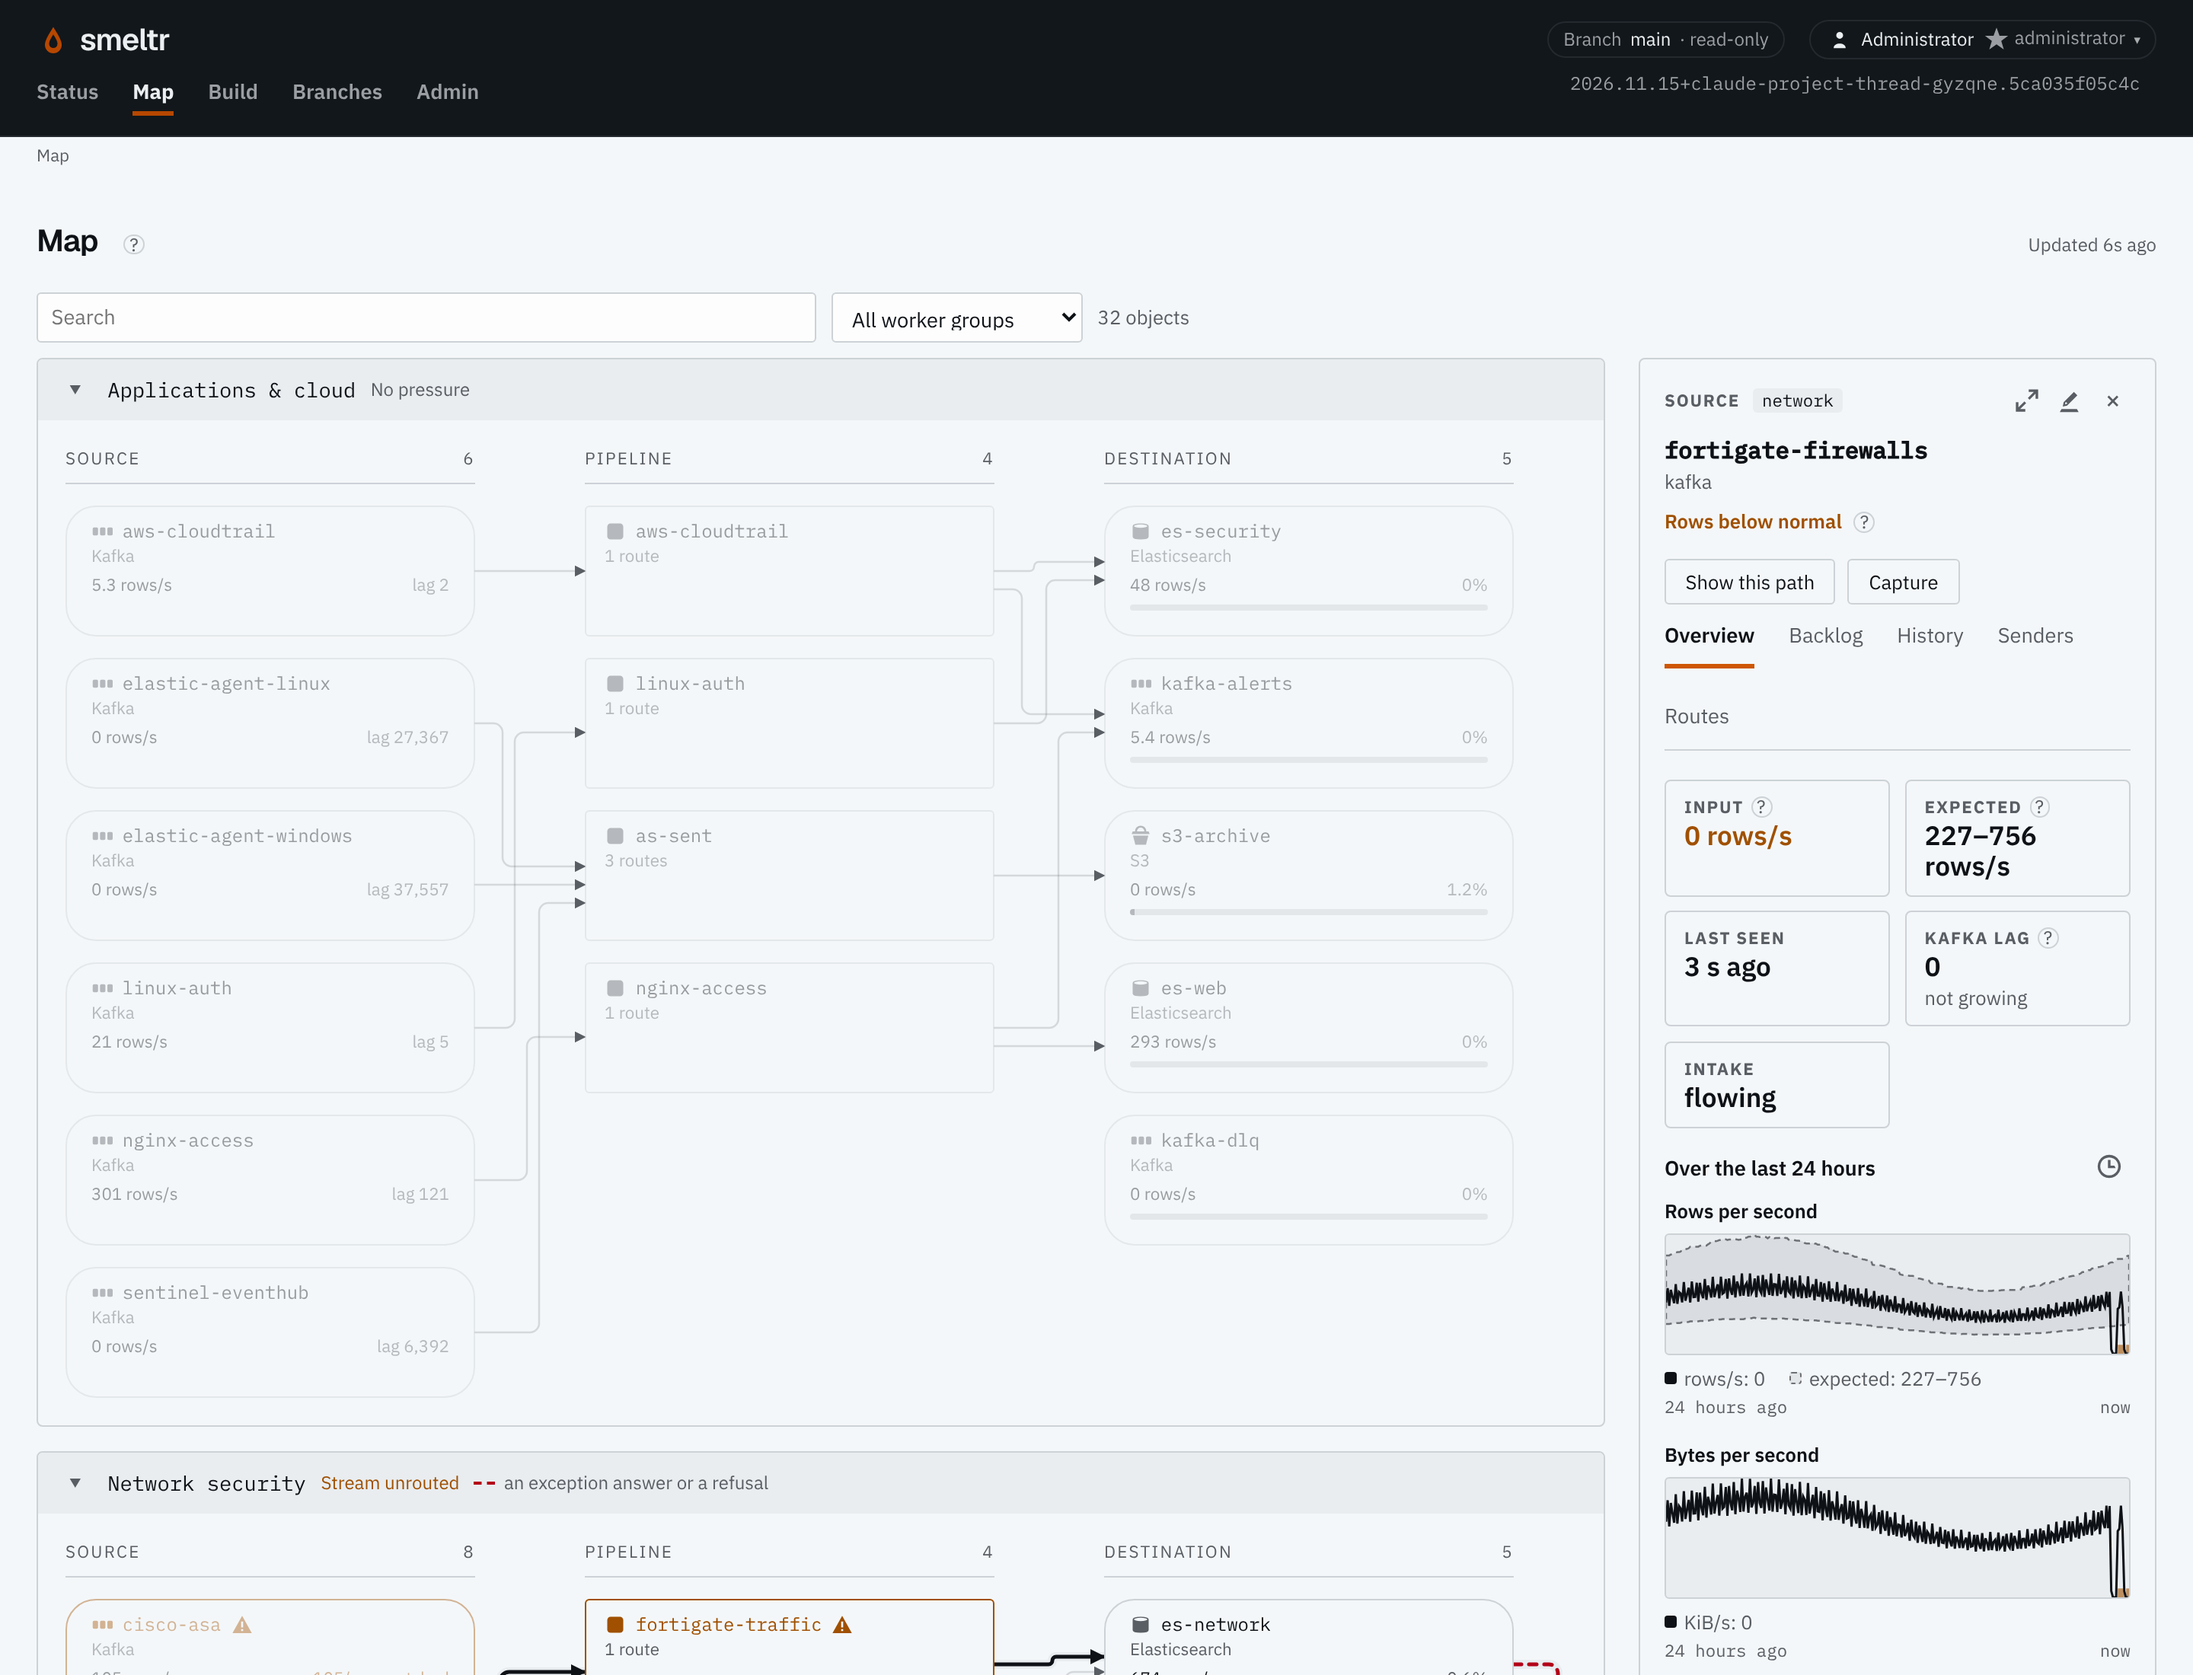
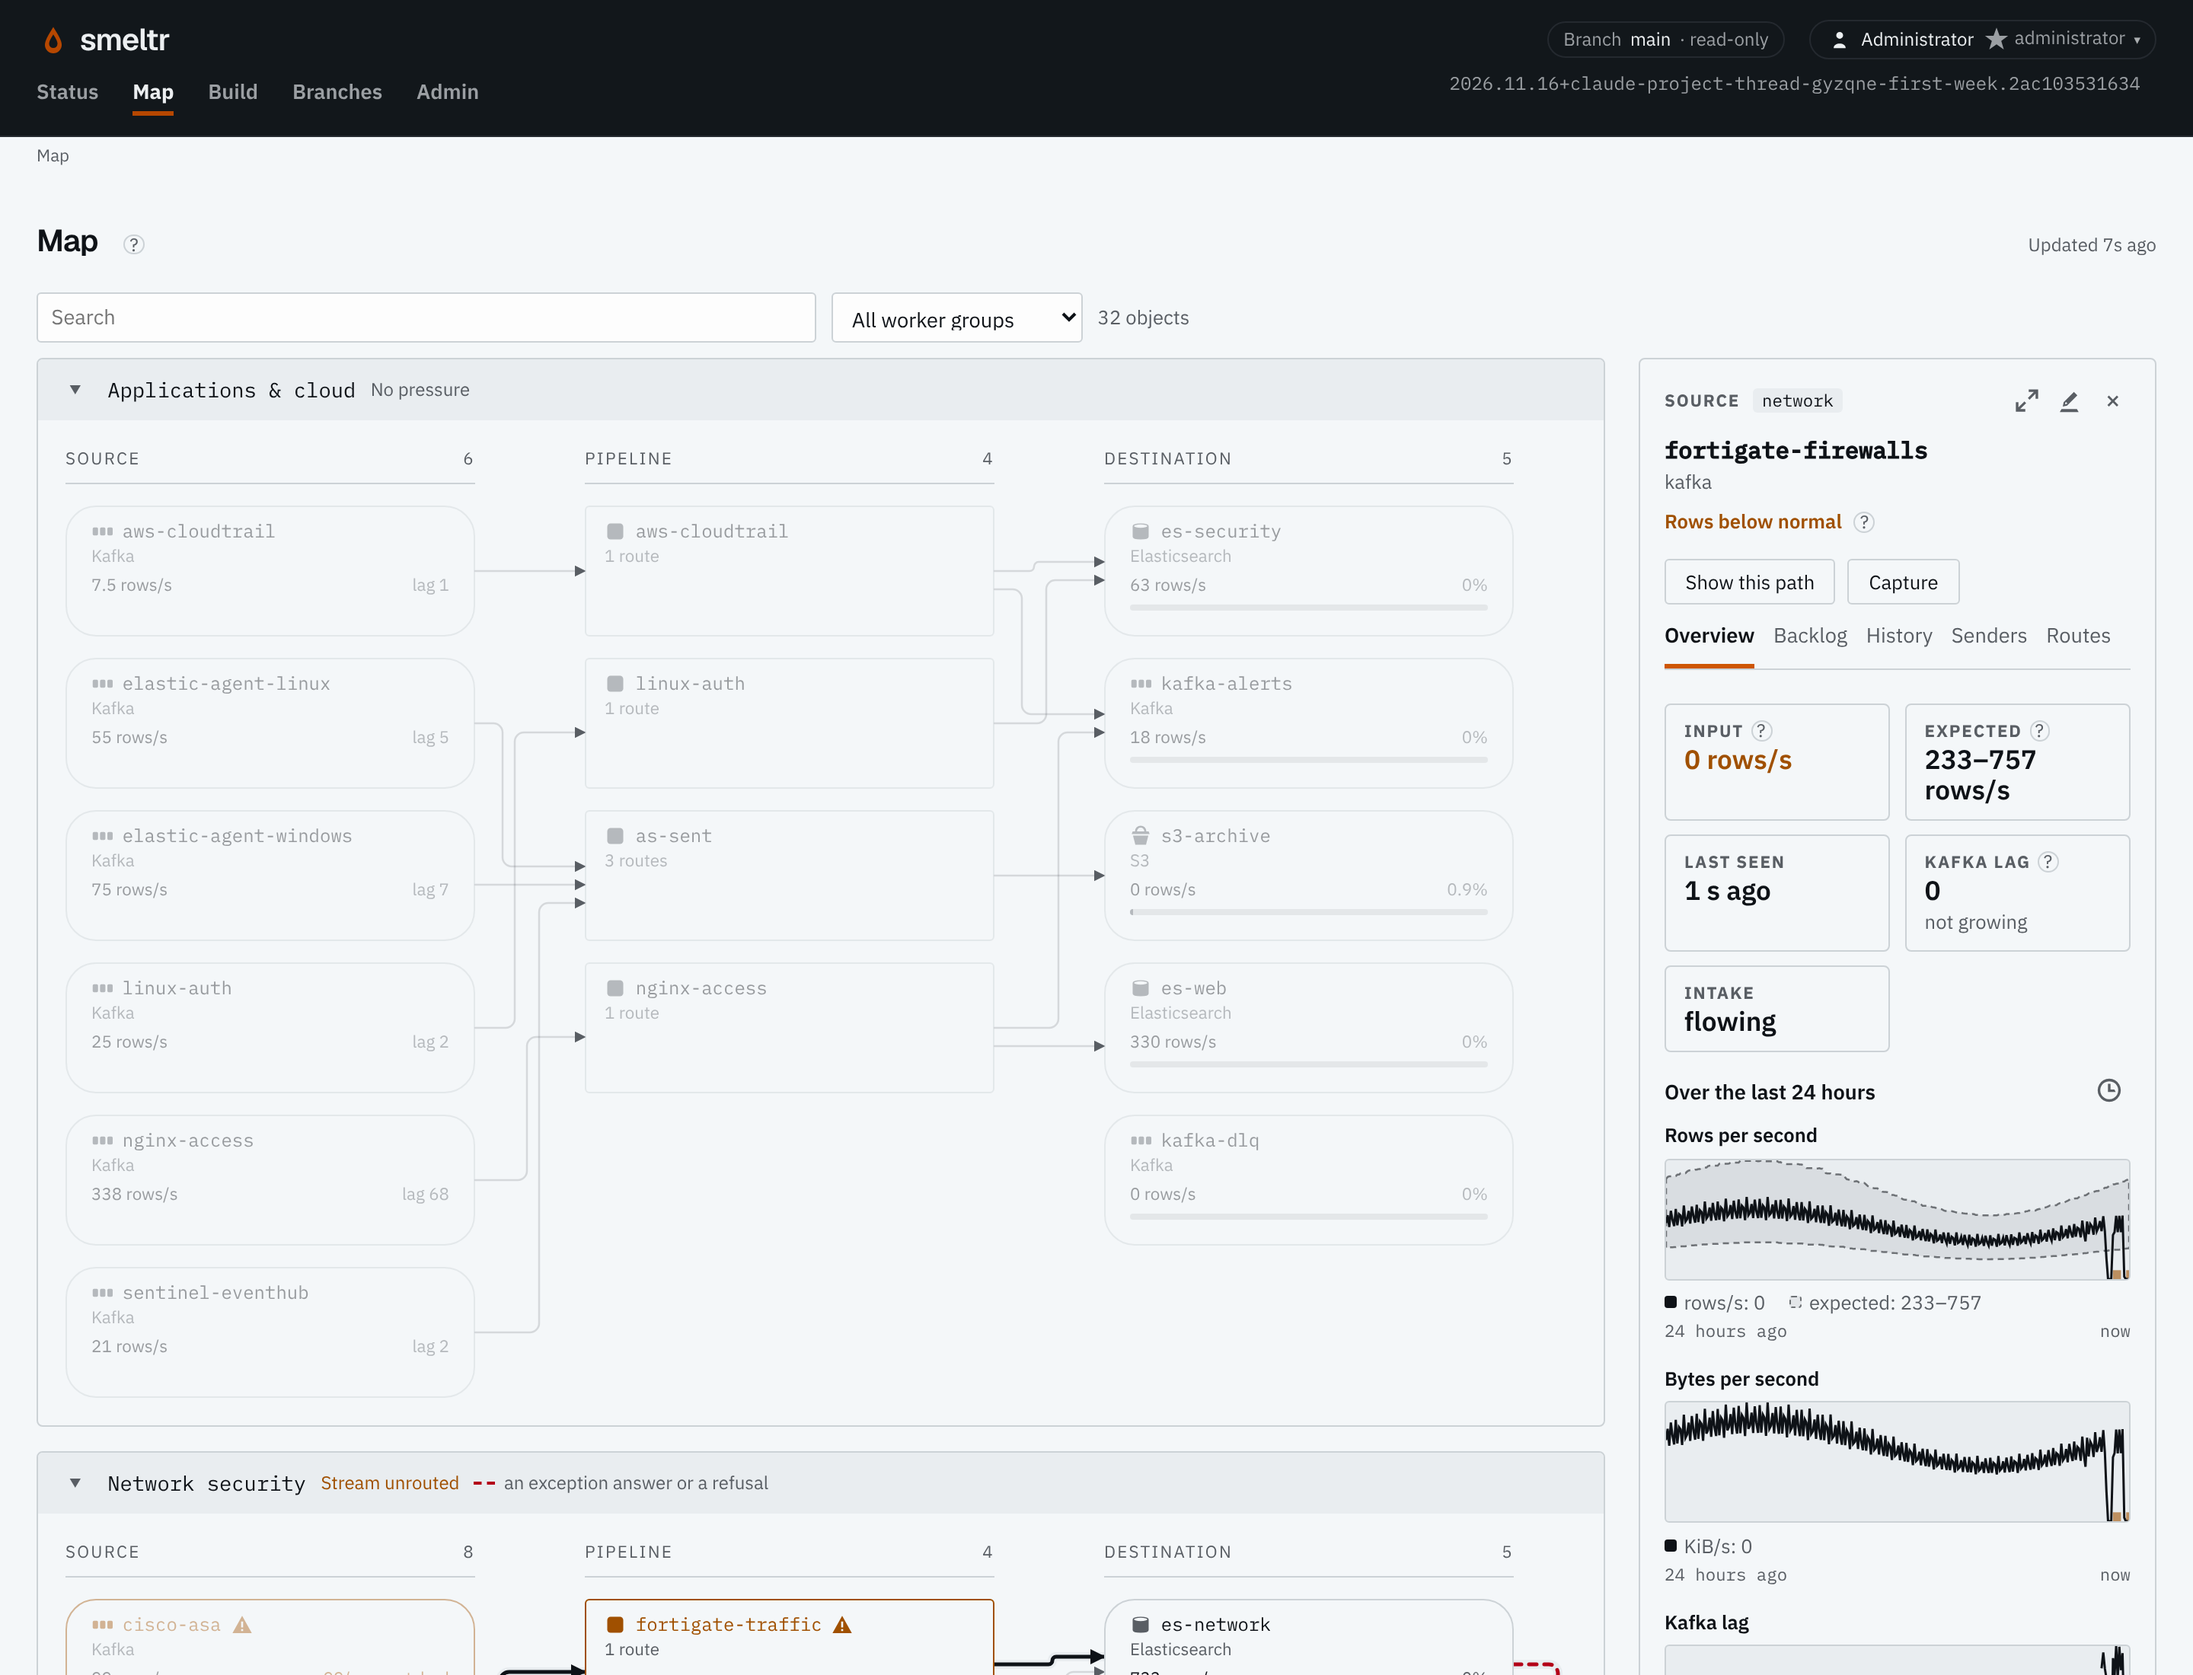
Retake the Feed health shots for answered warnings and a week's wait
The History shot shows two warnings: one an editor marked Outage, and one
just raised that waits for an answer. The page says how a warning is
answered, that a source is judged after a week, and that a sender's warning
is marked Normal or Outage. The Issues row now carries its answer switch.

Claude-Session: https://claude.ai/code/session_016X7h2TF6fY2yjAYkvbcw2P

diff --git a/website/src/routes/feed-health/+page.svelte b/website/src/routes/feed-health/+page.svelte
@@ -32,8 +32,8 @@
     <ProductScreenshot
       source="feed-health-volume"
       height={2200}
-      crop={{ x: 2150, y: 470, width: 690, height: 1410 }}
-      alt="The Map's panel for the fortigate-firewalls source: Rows below normal, input 0 rows a second, expected 227 to 756. Its 24-hour chart runs inside the expected band through the day, then drops to nothing twice."
+      crop={{ x: 2150, y: 470, width: 690, height: 1300 }}
+      alt="The Map's panel for the fortigate-firewalls source: Rows below normal, input 0 rows a second, expected 233 to 757. Its 24-hour chart runs inside the expected band through the day, then drops to nothing twice."
       caption="Over the last 24 hours the source reads within its band, until the relay stops, twice."
     />
     <p>
@@ -50,7 +50,7 @@
         width: 1440,
         crop: { x: 472, y: 956, width: 920, height: 388 },
       }}
-      alt="The Issues page: Rows below normal, for the fortigate-firewalls source, which read 0 rows in 5 minutes where 68,071 to 226,804 is normal at this time of day."
+      alt="The Issues page: Rows below normal, for the fortigate-firewalls source, which read 0 rows in 5 minutes where 70,006 to 227,110 is normal at this time of day. Beside it are Reset history and a Normal and Outage switch."
       caption="The Issues page names the source, what it read and what is normal."
     />
     <p>
@@ -60,22 +60,23 @@
       History tab.
     </p>
     <p>
-      Smeltr starts warning once a source has three days of history. A source too sparse for its
-      rows to be counted, such as an audit log that writes a few rows a day, is watched for four
-      weeks instead, then warns once it goes half again as long without a row as its longest quiet
-      spell of the past year.
+      Smeltr starts warning once a source has a week of history. A source too sparse for its rows to
+      be counted, such as an audit log that writes a few rows a day, is watched for four weeks
+      instead, then warns once it goes half again as long without a row as its longest quiet spell
+      of the past year.
     </p>
     <p>
       Each source's History tab lists its warnings and longest quiet spells of the past year. A
-      warning, and a quiet spell during one, is not learned unless an editor marks it Normal. Any
-      other quiet spell is learned unless an editor marks it Outage:
+      warning stays a warning until an editor marks it, there or on the Issues page. Marked Outage,
+      it turns into info until it ends, and is not learned. Marked Normal, it turns into info, and
+      the source's normal learns from it. A warning nobody marked is not learned either:
     </p>
     <ProductScreenshot
       source="feed-health-history"
       height={2200}
-      crop={{ x: 2150, y: 470, width: 690, height: 1560 }}
-      alt="The Map's panel for the fortigate-firewalls source, History tab, at the Balanced preset. Warnings: Nov 15, 04:05, for 20 minutes, and Nov 15, 03:25, for 40 minutes. Longest quiet spells: Nov 15, 03:30, for 15 minutes, inside the older warning. Each row has a Normal and Outage switch, set to Outage."
-      caption="A warning lasts until no width reads the source below normal, so it outlasts the quiet spell inside it. None of the three is learned."
+      crop={{ x: 2150, y: 470, width: 690, height: 1680 }}
+      alt="The Map's panel for the fortigate-firewalls source, History tab, at the Balanced preset. Warnings: Nov 16, 15:05, just raised, with its Normal and Outage switch unset; and Nov 16, 14:10, for 24 minutes, marked Outage by Priya Raman."
+      caption="Priya marked the first warning Outage. The second has just begun and waits for an answer. Neither is learned."
     />
   </section>
   <section aria-labelledby="senders-heading">
@@ -90,8 +91,8 @@
     <p>
       The source's Senders tab lists the fields that can name its senders and, for each watched
       sender, its last day against its range. Senders start at the Quiet preset, since each sender
-      warns on its own. An editor picks another preset there, lowers a sender's warning to info,
-      stops watching a field, or adds a field to watch.
+      warns on its own. An editor picks another preset there, marks a sender's warning Normal or
+      Outage, stops watching a field, or adds a field to watch.
     </p>
   </section>
   <section aria-labelledby="drift-heading">
